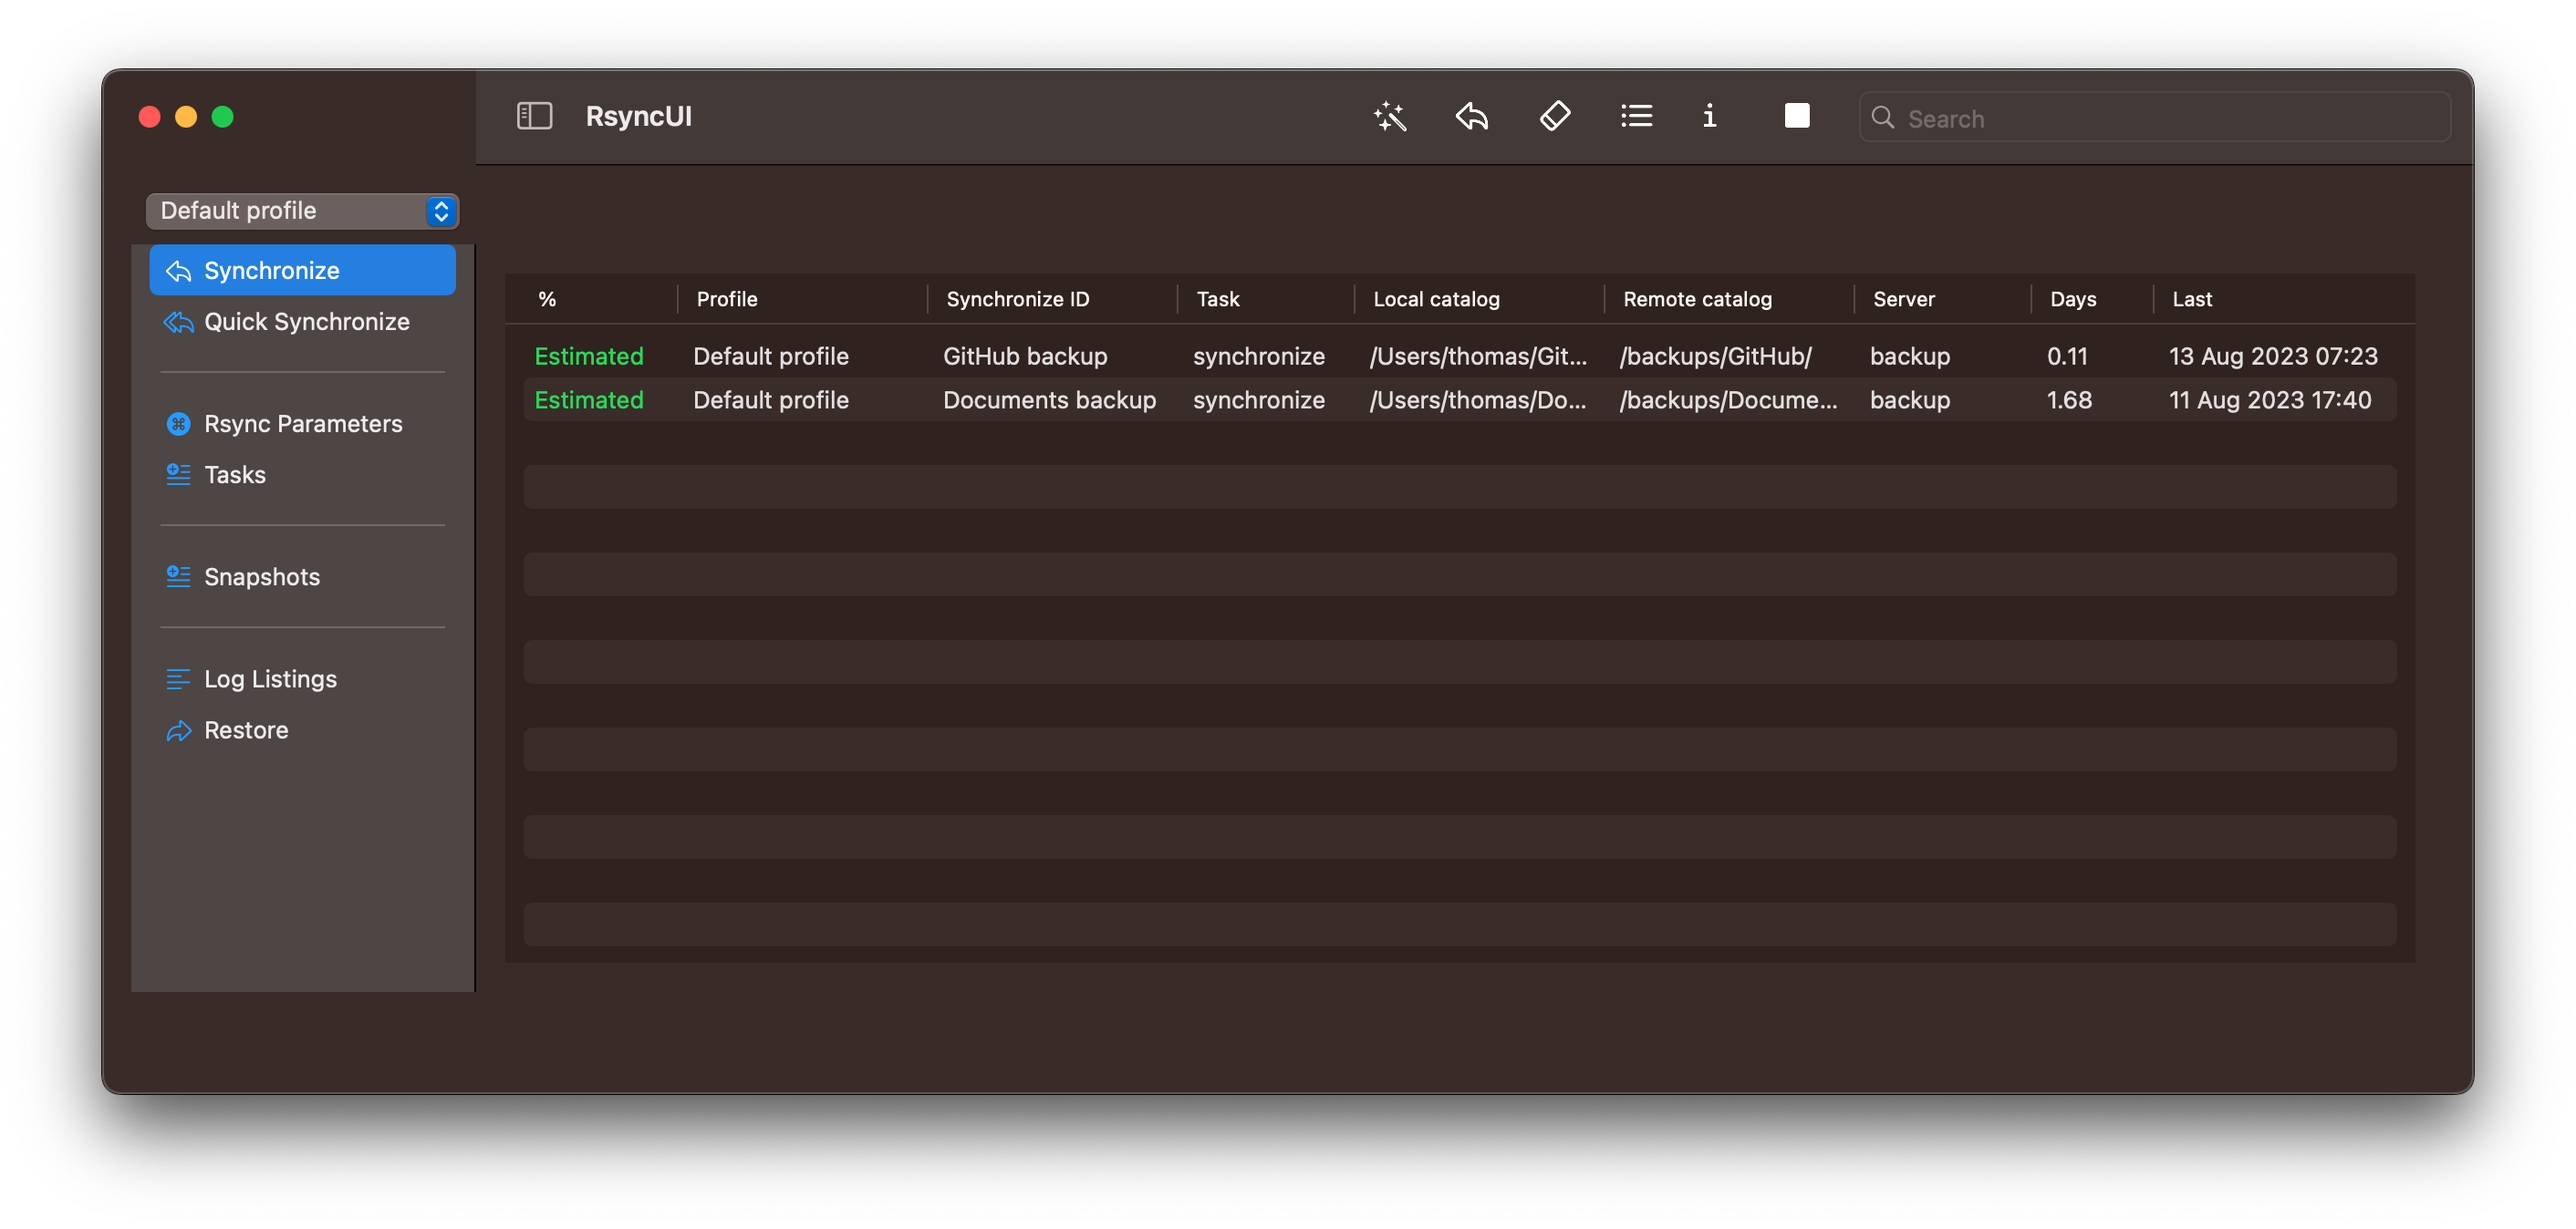
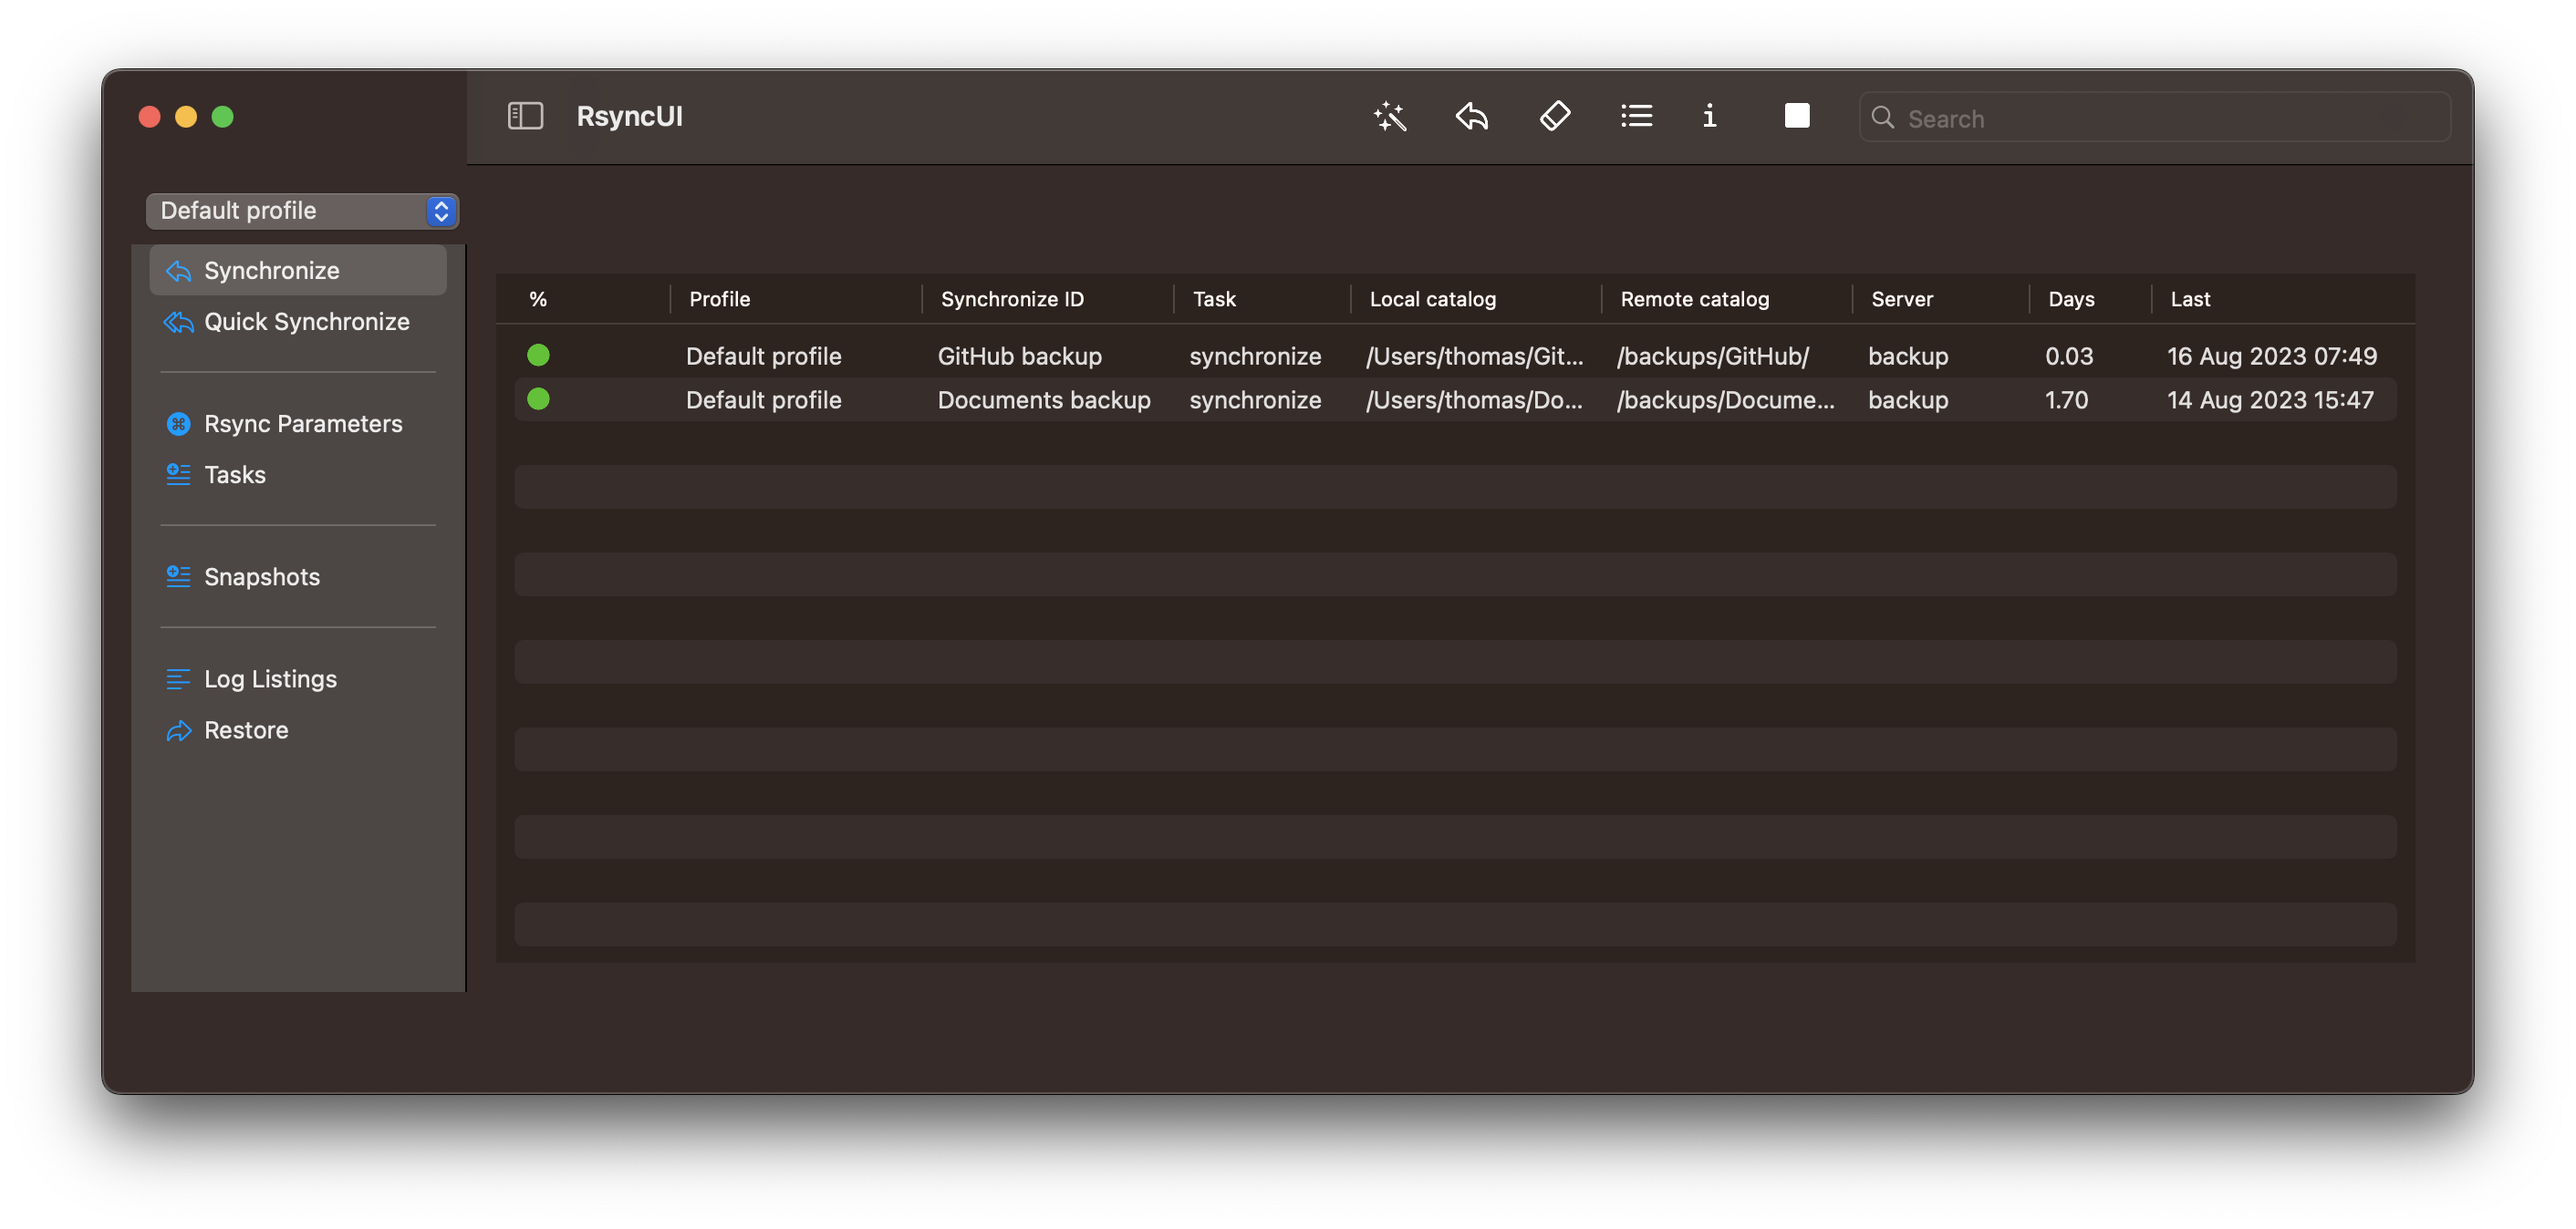
update

diff --git a/content/post/Changelog.md b/content/post/Changelog.md
@@ -8,17 +8,14 @@ lastmod = "2023-06-09"
 +++
 RsyncUI is [signed and notarized](/post/notarized/) and built as [Universal macOS Binary](https://developer.apple.com/documentation/xcode/building_a_universal_macos_binary). Please see info about [the latest version of rsync in install](/post/rsync/).
 
-## Version 1.7.0 build(82) - 12 August 2023 as release candidate
+## Version 1.7.0 build(82) - 16 August 2023 
 
-There will most likely be added a few more changes before release. There is tooltip for each function on the toolbar.
-
-On macOS Monterey there is still a button for DryRun within main view. MacOS Monterey does not support double click.
+There is tooltip for each function on the toolbar. MacOS Monterey does not support double click on row, see [how to execute a ](/post/macos12/) `--dry-run` on macOS Monterey. The RsyncUI documentation is updated and more updates will be done after this release. 
 
 - there is a cleanup in main taskview, if a task is executed after any estimation a progressbar will be presented
 - some adjustments in logs- and restore view
 - some of the functions are moved the toolbar
 - color of the buttons are adjusted
-- the Abort shortcut is changed to `⌘K` and it was not working in some views
 
 {{< figure src="/images/temp/tasktoolbar.png" alt="" position="center" style="border-radius: 8px;" >}}
 {{< figure src="/images/temp/taskquickview.png" alt="" position="center" style="border-radius: 8px;" >}}

diff --git a/content/post/Tasks.md b/content/post/Tasks.md
@@ -14,12 +14,12 @@ After adding new tasks always verify the result of task by either a double click
 
 ## All tasks in one go
 
-When RsyncUI starts it automatically open this view and by selecting the shortcut action `⌘E` will estimate all tasks. Executing tasks after estimating, either direct by button or by  `⌘R` a progressbar will show progress. 
+When RsyncUI starts it automatically open this view. By selecting the *wand and stars*  (shortcut `⌘E`) from the toolbar will estimate all tasks. Executing tasks after estimating, either direct by button or by  the *left arrow* (shortcut `⌘R`).  Progress of synchronizing data is presented.
 
 {{< figure src="/images/tasks/tasks.png" alt="" position="center" style="border-radius: 8px;" >}}
 {{< figure src="/images/tasks/estimate.png" alt="" position="center" style="border-radius: 8px;" >}}
 
-When a task is estimated the progress column will show the label `Estimated`. Selecting the task and choose the `Details` button will show the output from rsync. 
+When a task is estimated the progress column will show  a *green* bullet. Select the task and choose the *i* from toolbar will show the output from rsync. 
 
 {{< figure src="/images/tasks/details.png" alt="" position="center" style="border-radius: 8px;" >}}
 

diff --git a/content/post/macos12.md b/content/post/macos12.md
@@ -6,7 +6,18 @@ tags = ["macOS12"]
 categories = ["estimate"]
 +++
 
+Select the *wand and stars* on the toolbar for estimate all tasks.
+ 
 {{< figure src="/images/macos12/estimate.png" alt="" position="center" style="border-radius: 8px;" >}}
+
+After the estimate run, *Dismiss*  the view.
+
 {{< figure src="/images/macos12/resultestimate.png" alt="" position="center" style="border-radius: 8px;" >}}
+
+From the main view select a task and the *i* from the toolbar.
+
 {{< figure src="/images/macos12/estimatemain.png" alt="" position="center" style="border-radius: 8px;" >}}
+
+And the result of the estimation run is displayed.
+
 {{< figure src="/images/macos12/dryrun.png" alt="" position="center" style="border-radius: 8px;" >}}
